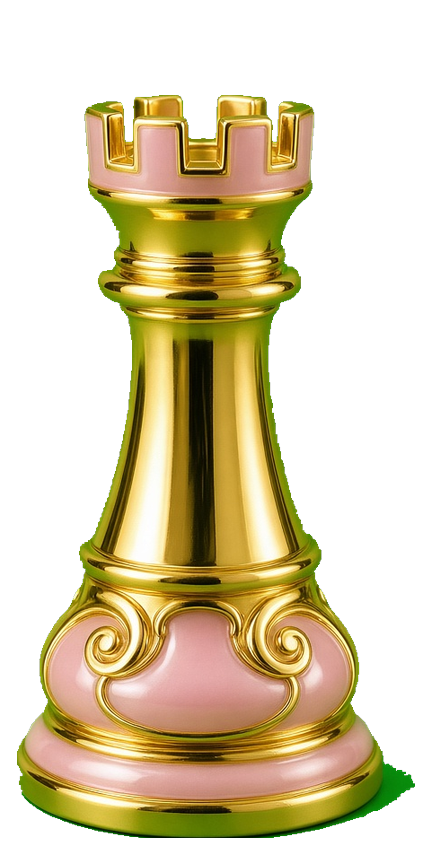
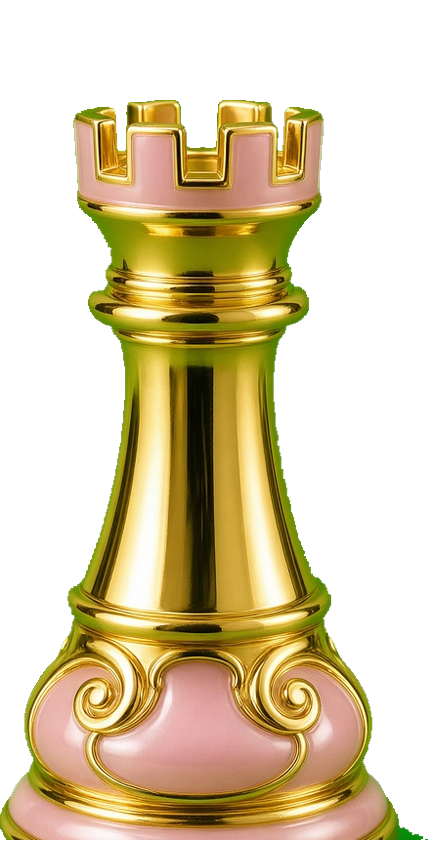
Update gold-pink chess pieces.

diff --git a/play-rooms.js b/play-rooms.js
@@ -259,7 +259,7 @@ window.bwRateGame=async function(sb, room, me, winnerSide){
     var set=setId||document.body.getAttribute("data-set")||"classic";
     var L=(letter||"P").toUpperCase();
     var s=side==="b"?"b":"w";
-    if(set==="gold") return (s==="w"?"piece-gold-w-":"piece-silver-b-")+L+".png?v=10";
+    if(set==="gold") return (s==="w"?"piece-gold-w-":"piece-silver-b-")+L+".png?v=11";
     if(set==="cobalt") return "piece-"+s+"-"+L+".png?v=14";
     return (s==="w"?"piece-parlor-w-":"piece-parlor-b-")+L+".png?v=6";
   }
